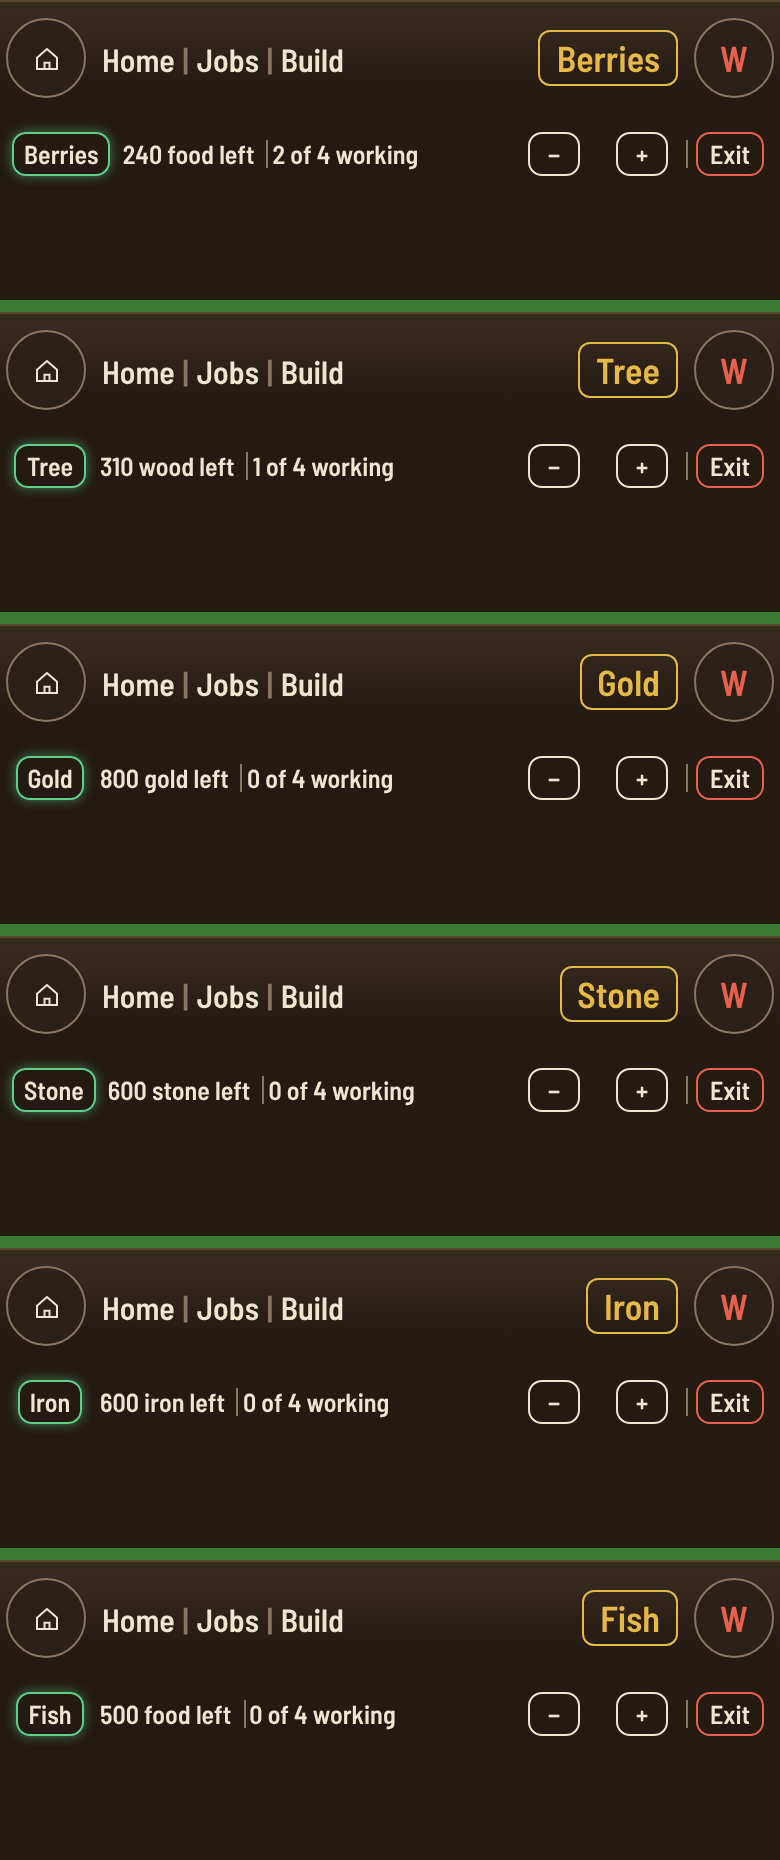
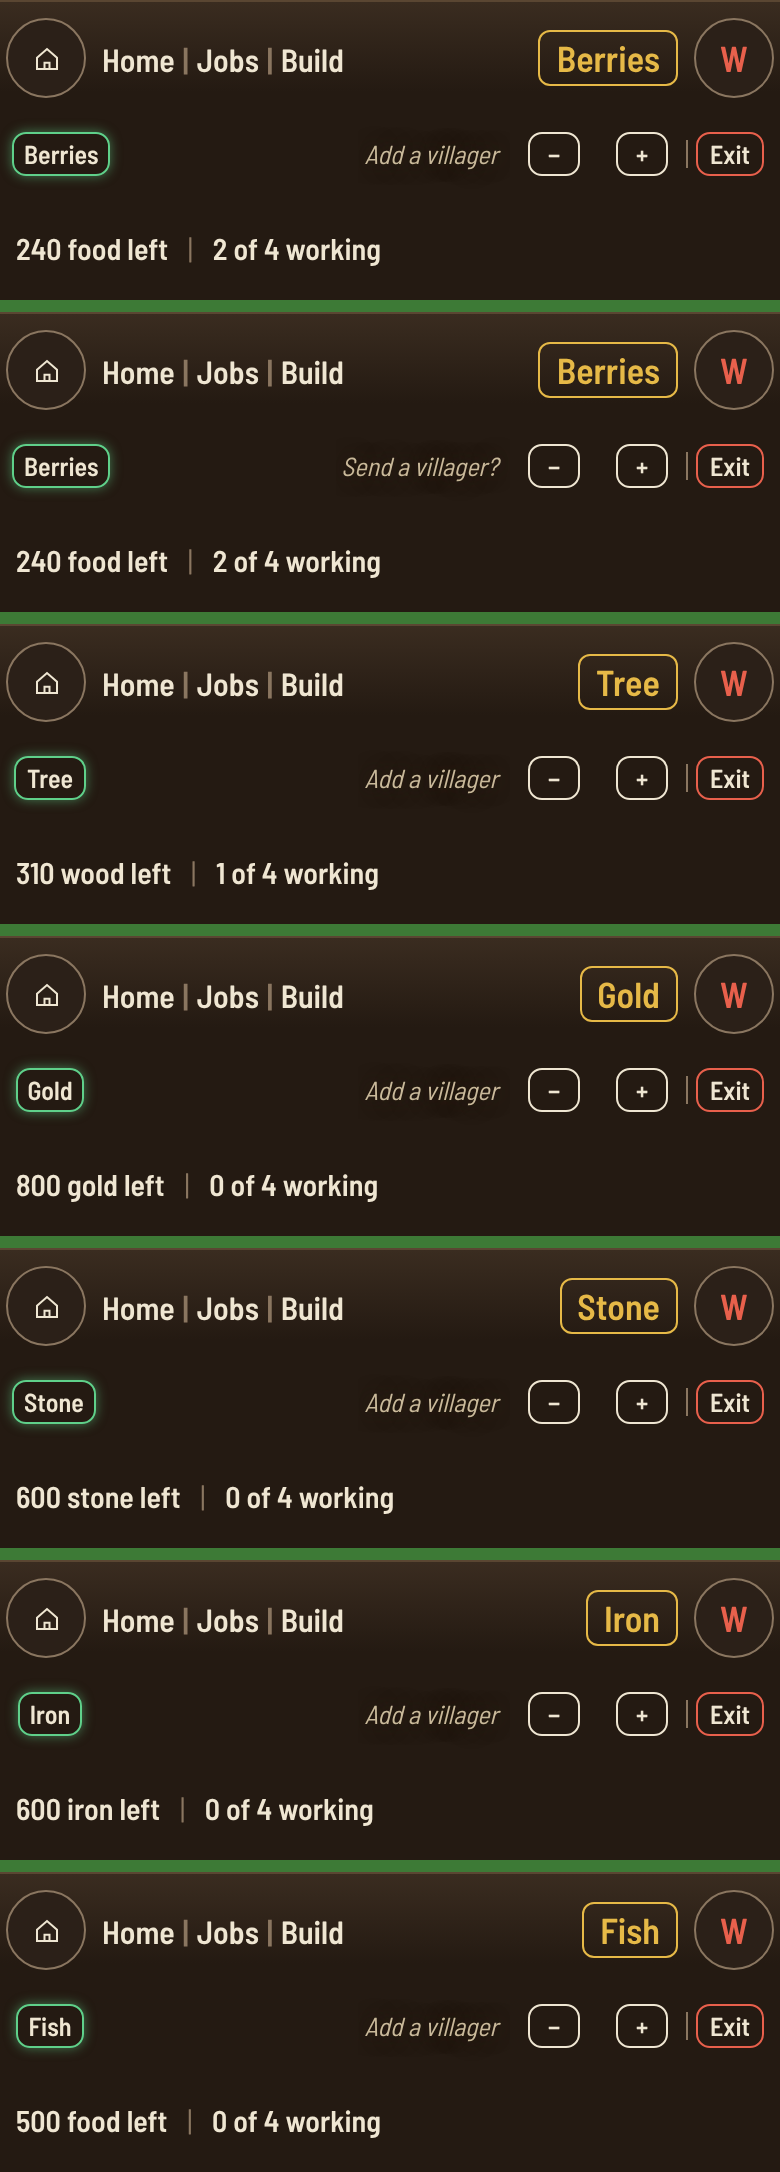
Drafts: item cards, info in the tiles' row and an italic line by the minus and plus (Albert, 16:10)
Claude-Session: https://claude.ai/code/session_017QywRJB2zHGW1E2WM4sAK6

diff --git a/mockups/cards/panel.js b/mockups/cards/panel.js
@@ -19,17 +19,17 @@ window.fkPanel = (sp, taps) => {
   .fk .tile{width:61px;height:44px;border:1.5px solid #efe6d2;border-radius:6px;display:flex;flex-direction:column;align-items:center;justify-content:center;font-size:13px;line-height:1.1;box-sizing:border-box;white-space:nowrap;overflow:hidden}
   .fk .tile small{color:#5fd08a;font-size:11px}.fk .tile.ton{border-color:#5fd08a;box-shadow:0 0 6px #5fd08a88}.fk .tile.tgr{border-color:#5fd08a}
   .fk .tile.twar{color:#e8604c;font-style:italic;font-weight:600;text-transform:uppercase;font-size:11px;white-space:normal;text-align:center}.fk .tile.twar svg{width:14px;height:14px;stroke:#e8604c;fill:none;stroke-width:1.6}
-  .fk .info{position:absolute;left:8px;top:54px;height:44px;display:flex;align-items:center;font-size:13px;color:#c9b99a}`;
+  .fk .inf{position:absolute;left:8px;top:101px;height:44px;display:flex;align-items:center;gap:10px;font-size:15px}.fk .inf b{font-weight:600}.fk .inf i{font-style:normal;color:#8a7660}.fk .hint{font-style:italic;font-weight:400;color:#c9b99a;padding-right:6px}`;
   const s = (t, c = '') => `<div class="s ${c}">${t}</div>`, r2 = [];
   if (sp.crumb) { r2.push(s(`<span class="fg">${sp.crumb}</span>`), sp.pages && sp.pages.length ? s('›', 'nt') : ''); }
   (sp.pages || []).forEach((p, i) => r2.push(s(p === sp.page ? `<span class="fg ${p === 'Learn' ? 'bl' : ''}">${p}</span>` : p, i && p !== sp.page && sp.pages[i - 1] !== sp.page ? 'fp' : '')));
   (sp.pick || []).forEach(([n, c], i) => r2.push(s(i === (sp.picked || 0) ? `<span class="fg ${sp.war ? 'rd' : ''}">${n}<small>${c ?? ''}</small></span>` : `${n}<small>${c ?? ''}</small>`, i && i !== (sp.picked || 0) && i - 1 !== (sp.picked || 0) ? 'fp' : '')));
-  r2.push('<div class="fsp"></div>'); if (sp.pm) r2.push(s('<span>−</span>', 'fpm'), s('<span>+</span>', 'fpm'));
+  r2.push('<div class="fsp"></div>'); if (sp.hint) r2.push(s(sp.hint, 'nt hint')); if (sp.pm) r2.push(s('<span>−</span>', 'fpm'), s('<span>+</span>', 'fpm'));
   for (const a of sp.acts || []) r2.push(s(a === 'Exit' ? '<span>Exit</span>' : a, a === 'Exit' ? 'ex fp' : a === 'Demolish' ? 'dm fp' : 'fp'));
   const tile = (t) => t.war ? `<div class="tile twar ${t.c || ''}">${t.i ? `<svg viewBox="0 0 24 24">${t.i}</svg>` : ''}${t.n}</div>` : `<div class="tile ${t.c || ''}">${t.n}${t.s ? `<small>${t.s}</small>` : ''}</div>`;
   const d = document.createElement('div'); d.className = 'fk' + (taps ? ' taps' : '') + (sp.fix ? ' fix' : '');
   d.innerHTML = `<style>${css}</style><div class="r1"><div class="hm"><svg viewBox="0 0 24 24" width="15" height="15" fill="none" stroke="#efe6d2" stroke-width="1.6"><path d="M4 11l8-7 8 7v9H4z"/><path d="M10 20v-5h4v5"/></svg></div><div class="way">Home<i>|</i>${sp.way === 'Jobs' ? '<b>Jobs</b>' : 'Jobs'}<i>|</i>${sp.way === 'Build' ? '<b>Build</b>' : 'Build'}</div><div class="tt">${sp.title}</div><div class="w ${sp.war ? 'won' : ''}">W</div></div>
-    <div class="r2">${r2.join('')}</div><div class="r3">${(sp.tiles || []).map(tile).join('')}</div>`;
+    <div class="r2">${r2.join('')}</div><div class="r3">${(sp.tiles || []).map(tile).join('')}</div>${sp.info ? `<div class="inf">${sp.info.map((t) => `<b>${t}</b>`).join('<i>|</i>')}</div>` : ''}`;
   document.body.append(d);
   for (const t of d.querySelectorAll('.tile')) { const sm = t.querySelector('small'); let f = 11; while (sm && t.scrollWidth > t.clientWidth && f > 8) sm.style.fontSize = --f + 'px'; f = 13; while (t.scrollWidth > t.clientWidth && f > 9) t.style.fontSize = --f + 'px'; }
   const row = d.querySelector('.r2'); return { over: Math.max(0, Math.round(row.scrollWidth - row.clientWidth)), title: Math.round(d.querySelector('.r1').scrollWidth - d.querySelector('.r1').clientWidth) };

diff --git a/mockups/cards/items.py b/mockups/cards/items.py
@@ -1,0 +1,20 @@
+# Item cards, Albert Nov 19 16:10: the info where the tiles would be; an italic sentence beside the - and +. Two wordings side by side, and one full game screen.
+import asyncio
+from playwright.async_api import async_playwright
+V = '/home/claude/first-keep/frankenstein-refresh/v100'; OUT = '/home/claude/first-keep/mockups/cards/'; PANEL = open(OUT + 'panel.js').read()
+item = lambda n, left, unit, on, hint='Add a villager': {'title': n, 'crumb': n, 'pages': [], 'hint': hint, 'pm': 1, 'acts': ['Exit'], 'tiles': [], 'info': [f'{left} {unit} left', f'{on} of 4 working']}
+SPECS = [item('Berries', 240, 'food', 2), item('Berries', 240, 'food', 2, 'Send a villager?'), item('Tree', 310, 'wood', 1), item('Gold', 800, 'gold', 0), item('Stone', 600, 'stone', 0), item('Iron', 600, 'iron', 0), item('Fish', 500, 'food', 0)]
+async def main():
+    async with async_playwright() as p:
+        b = await p.chromium.launch(executable_path='/usr/bin/google-chrome', args=['--no-sandbox', '--allow-file-access-from-files'])
+        pg = await b.new_page(viewport={'width': 390, 'height': 300}, device_scale_factor=2); await pg.goto('file://' + V + '/index.html#1'); await pg.wait_for_timeout(1200)
+        await pg.evaluate("() => { document.body.innerHTML = ''; document.body.style.cssText = 'margin:0;background:#3d7a36;display:flex;flex-wrap:wrap;gap:6px;overflow:auto;height:auto;position:static'; document.documentElement.style.cssText = 'overflow:auto;height:auto'; }")
+        await pg.add_script_tag(content=PANEL)
+        for sp in SPECS: print(sp['title'], sp['hint'], await pg.evaluate("(sp) => fkPanel(sp, false)", sp))
+        await pg.screenshot(path=OUT + 'sheet-Items.png', full_page=True); await pg.close()
+        pg = await b.new_page(viewport={'width': 390, 'height': 844}, device_scale_factor=2); await pg.goto('file://' + V + '/index.html#20261105'); await pg.wait_for_timeout(2500)
+        await pg.evaluate("() => { start(20261105); FK.fog(false); paused = false; K.t = D.day / 4; climate(0); MENU.S.tab = null; MENU.render(true); }"); await pg.wait_for_timeout(700)
+        await pg.add_style_tag(content='#ui,#qa,#spd{visibility:hidden!important}'); await pg.add_script_tag(content=PANEL)
+        await pg.evaluate("""(sp) => { const h = FK.seatOf(0), t = FK.things().filter((q) => q.kind === 'bush').sort((a, b) => Math.hypot(a.bx - h.bx, a.by - h.by) - Math.hypot(b.bx - h.bx, b.by - h.by))[0]; FK.cam.follow = false; FK.cam.x = t.vx; FK.cam.y = t.vy + 40; fkPanel({ ...sp, fix: 1 }, false); }""", SPECS[0])
+        await pg.wait_for_timeout(600); await pg.screenshot(path=OUT + 'screen-Berries.png'); await b.close()
+asyncio.run(main())

diff --git a/mockups/cards/mock.py b/mockups/cards/mock.py
@@ -24,7 +24,7 @@ war = lambda last, cls: {'title': 'War Command', 'war': 1, 'pick': [['All', 9], 
 jobs = {'title': 'Jobs', 'way': 'Jobs', 'pick': [['Villagers', '6|10'], ['Idle', 0]], 'picked': -1, 'pm': 1, 'acts': ['Exit'], 'tiles': [{'n': 'Villager', 's': '50f'}] + [{'n': n, 's': c, 'c': 'ton' if n == 'Food' else ''} for n, c in [('Food', 5), ('Wood', 1), ('Gold', 0), ('Stone', 0), ('Iron', 0)]]}
 builds = [{'title': 'Build', 'way': 'Build', 'pick': [[x, None] for x in M['Build']], 'picked': i, 'acts': ['Exit'], 'tiles': [tile(c) for c in cs]} for i, (g, cs) in enumerate(M['Build'].items())]
 sheets['Menus'] = [jobs] + builds + [war('Garrison villagers', ''), war('Back to work', 'tgr')]
-item = lambda n, left, unit, on: {'title': n, 'crumb': n, 'pages': [], 'pick': [[f'{left} {unit} left', None], [f'{on} of 4 working', None]], 'picked': -1, 'pm': 1, 'acts': ['Exit'], 'tiles': []}
+item = lambda n, left, unit, on: {'title': n, 'crumb': n, 'pages': [], 'hint': 'Add a villager', 'pm': 1, 'acts': ['Exit'], 'tiles': [], 'info': [f'{left} {unit} left', f'{on} of 4 working']}
 sheets['Items'] = [item('Berries', 240, 'food', 2), item('Tree', 310, 'wood', 1), item('Gold', 800, 'gold', 0), item('Stone', 600, 'stone', 0), item('Iron', 600, 'iron', 0), item('Fish', 500, 'food', 0)]
 async def main():
     async with async_playwright() as p:

diff --git a/docs/3 Locks/Drafts/07 The building card.md b/docs/3 Locks/Drafts/07 The building card.md
@@ -51,3 +51,4 @@ STATUS: DESIGN TALK, mocked on the n74 screen; not built. Albert, Nov 19 13:39 t
 - Q5: the longest name on the Build list is "Siege workshop": 113 px at 18 px in the title; it fits row 1 and row 2.
 - Found: the Market has four pages (Train, Sell, Buy, Learn), not three; other first pages are Plant (Mill, Lumber camp), Build (Mining camp, Wall), Make (Foundry, Workshop). 21 of 50 buildings have no page (only Repair, Demolish, Exit). Long tile names (Armed caravans, Dugout canoes, Seed selection, Timber framing, Weighted loom) shrink to about 8 px in a 61 px tile.
 - Item cards (Berries, Tree, Gold, Stone, Iron, Fish) are Claude's proposal, no card exists today: the name as title and breadcrumb; "240 food left | 2 of 4 working"; − and + step the workers; Exit. Jobs in the mold (pick a resource tile, − and + in row 2) is also a proposal. Not ruled.
+- Item cards, Albert 16:10: the info (how much food it has) goes where the tiles would be; an italic sentence sits beside the − and +, "Send a villager?" or "Add a villager", in italics like the other instructions. Mocked both wordings: `mockups/cards/sheet-Items.png`, `screen-Berries.png` (items.py). His pick of the wording open. Claude: "Add a villager" fits − and + (a count); "Send a villager?" is a question, which wants yes or no. [2026-11-19 16:20]
